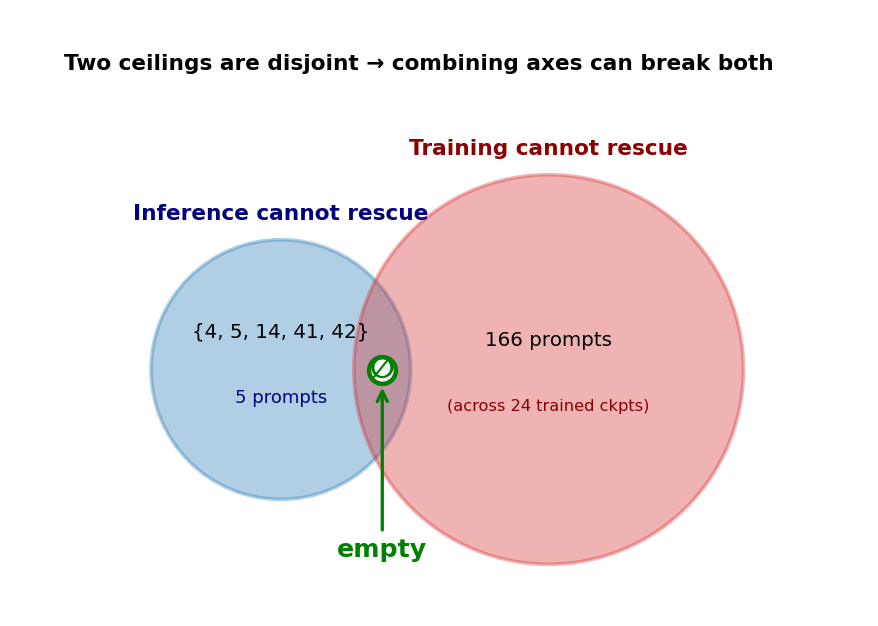
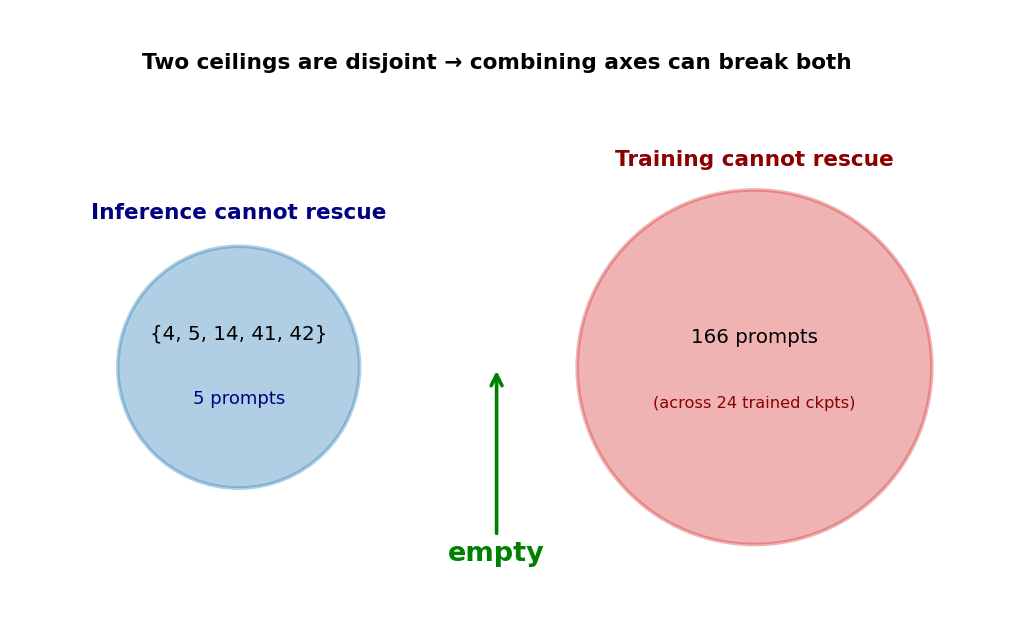
polish(figures): venn truly disjoint + arrow-only empty marker; passN bar chart aligned
cross_axis_venn.png:
  - Removed ∅ icon entirely (the white circle with green stroke was ugly)
  - Circles are now visually SEPARATE (clear gap between them) — that
    is the actual point: disjoint sets don't visually overlap
  - Single green arrow from below pointing into the gap, labeled
    'empty'. No target marker. Clean.

passN_vs_SC.png:
  - X-axis labels were running into each other ('Full step_84' next
    to 'LoRA r=1 step_336' overlapped). Now compact labels:
      'Full ep=2', 'Full ep=0.5', 'LoRA r=1 ep=2'
    rotated 20° at right alignment.
  - Gap labels moved ABOVE each pair (was crammed between bars).
    Bar values added on top of each bar in matching colors.
  - Figure widened to 13in for breathing room.

Changed region(s): [[0.0923, 0.2138, 0.9226, 0.9164], [0.0615, 0.0611, 0.8918, 0.1222]]

diff --git a/scripts/make_logic_chain_figures.py b/scripts/make_logic_chain_figures.py
@@ -171,10 +171,12 @@ def fig_passN_vs_sc():
     if not base.is_dir():
         print("  (skip — no t6_decode_ablate)"); return
 
+    # Compact labels to avoid x-axis overlap. Full chart already conveys
+    # the model identity via grouping; T= ... is the within-group axis.
     label_short = {
-        "v161_t6_ablate_hf_step_336": "Full step_336",
-        "v161_t6_ablate_hf_step_84":  "Full step_84",
-        "v161_t6_lora_r1_hf_step_336_merged": "LoRA r=1 step_336",
+        "v161_t6_ablate_hf_step_336": "Full ep=2",
+        "v161_t6_ablate_hf_step_84":  "Full ep=0.5",
+        "v161_t6_lora_r1_hf_step_336_merged": "LoRA r=1 ep=2",
     }
     for d in sorted(base.iterdir()):
         if not d.is_dir(): continue
@@ -205,45 +207,41 @@ def fig_passN_vs_sc():
     if not cells:
         print("  (skip — no parsed cells)"); return
 
-    fig, ax = plt.subplots(figsize=(11, 5.5))
+    fig, ax = plt.subplots(figsize=(13, 6))
     n = len(cells)
     xs = np.arange(n)
     pass8 = [c[2] for c in cells]
     sc8 = [c[3] for c in cells]
     w = 0.38
-    ax.bar(xs - w/2, pass8, w, color="steelblue", edgecolor="black",
-           label="Sampling oracle (pass@8)")
-    ax.bar(xs + w/2, sc8, w, color="indianred", edgecolor="black",
-           label="Majority vote (SC@8)")
+    pass_bars = ax.bar(xs - w/2, pass8, w, color="steelblue",
+                        edgecolor="black", label="Sampling oracle (pass@8)")
+    sc_bars = ax.bar(xs + w/2, sc8, w, color="indianred",
+                      edgecolor="black", label="Majority vote (SC@8)")
 
-    # gap arrows + label OFFSET to the RIGHT of the right bar so it's
-    # not hidden behind the red bar
-    LABEL_X_OFFSET = 0.32
+    # Number on TOP of each bar
+    for b, v in zip(pass_bars, pass8):
+        ax.text(b.get_x() + b.get_width()/2, v + 0.6, f"{v:.1f}",
+                ha="center", fontsize=8, color="steelblue")
+    for b, v in zip(sc_bars, sc8):
+        ax.text(b.get_x() + b.get_width()/2, v + 0.6, f"{v:.1f}",
+                ha="center", fontsize=8, color="indianred")
+
+    # Gap label CENTERED ABOVE the bar pair (above pass@8 since it's higher)
     for i, (p, s) in enumerate(zip(pass8, sc8)):
-        # vertical line connecting top of red bar to top of blue bar
-        ax.annotate("",
-                    xy=(i, p - 0.5),
-                    xytext=(i, s + 0.5),
-                    arrowprops=dict(arrowstyle="<->", color="dimgray",
-                                    alpha=0.85, lw=1.4))
-        # gap value placed to the RIGHT of both bars, vertically centered
-        ax.text(i + LABEL_X_OFFSET + w/2, (p + s) / 2,
-                f"gap\n{p - s:.1f}",
-                ha="left", va="center",
-                fontsize=8.5, color="dimgray", fontweight="bold",
-                bbox=dict(boxstyle="round,pad=0.2", facecolor="white",
-                          edgecolor="lightgray", alpha=0.85))
+        ax.text(i, p + 4.5, f"gap −{p - s:.1f}",
+                ha="center", fontsize=9, color="dimgray", fontweight="bold")
 
     ax.set_xticks(xs)
-    ax.set_xticklabels([f"{c[0]}\n@T={c[1]}" for c in cells], fontsize=9)
+    # Two-line label: model on top, T on bottom; rotated 25° to avoid overlap
+    ax.set_xticklabels([f"{c[0]}\nT={c[1]}" for c in cells],
+                       fontsize=9, rotation=20, ha="right")
     ax.set_ylabel("fail rescue (%)")
     ax.set_title("Sampling oracle vs deployable majority-vote on full scope\n"
                  "gap 25-30% = model capacity exists but cannot be tapped without oracle")
     ax.legend(loc="upper right")
     ax.grid(axis="y", alpha=0.3)
-    ax.set_ylim(0, 78)
-    # extra right margin so the rightmost gap label fits
-    ax.set_xlim(-0.6, n - 0.4 + LABEL_X_OFFSET + w/2 + 0.4)
+    ax.set_ylim(0, 80)
+    plt.subplots_adjust(bottom=0.22)
     out = FIG_DIR / "passN_vs_SC.png"
     plt.savefig(out); plt.close()
     print(f"  → {out}")
@@ -295,56 +293,51 @@ def fig_capacity_ladder():
 
 # ──────────────────── Figure 6: Cross-axis Venn diagram ────────────────────
 def fig_cross_axis_venn():
-    """Conceptual: inference-ceiling and training-ceiling are disjoint."""
+    """Two disjoint sets — circles do NOT overlap; arrow into the gap
+    between them with 'empty' label, no marker icon."""
     fig, ax = plt.subplots(figsize=(10, 6))
     from matplotlib.patches import Circle
-    # Two non-overlapping circles (positions chosen so they JUST touch)
-    LEFT_CTR = (-1.7, 0); LEFT_R = 1.6
-    RIGHT_CTR = (1.6, 0); RIGHT_R = 2.4
+
+    # SEPARATE circles (clear gap between) — the visual fact = disjoint
+    LEFT_CTR = (-3.2, 0); LEFT_R = 1.5
+    RIGHT_CTR = (3.2, 0); RIGHT_R = 2.2
     c1 = Circle(LEFT_CTR, LEFT_R, alpha=0.35, color="tab:blue", linewidth=2,
                 edgecolor="navy")
     c2 = Circle(RIGHT_CTR, RIGHT_R, alpha=0.35, color="tab:red", linewidth=2,
                 edgecolor="darkred")
     ax.add_patch(c1); ax.add_patch(c2)
 
-    # Left circle: A-axis Ceiling-5
+    # Left circle: inference-only ceiling
     ax.text(LEFT_CTR[0], LEFT_CTR[1] + 1.85, "Inference cannot rescue",
             ha="center", fontsize=12, fontweight="bold", color="navy")
-    ax.text(LEFT_CTR[0], LEFT_CTR[1] + 0.4, "{4, 5, 14, 41, 42}",
+    ax.text(LEFT_CTR[0], LEFT_CTR[1] + 0.35, "{4, 5, 14, 41, 42}",
             ha="center", fontsize=11)
-    ax.text(LEFT_CTR[0], LEFT_CTR[1] - 0.4, "5 prompts",
+    ax.text(LEFT_CTR[0], LEFT_CTR[1] - 0.45, "5 prompts",
             ha="center", fontsize=10, color="navy")
 
-    # Right circle: T6 hardset
-    ax.text(RIGHT_CTR[0], RIGHT_CTR[1] + 2.65, "Training cannot rescue",
+    # Right circle: training-only ceiling
+    ax.text(RIGHT_CTR[0], RIGHT_CTR[1] + 2.5, "Training cannot rescue",
             ha="center", fontsize=12, fontweight="bold", color="darkred")
     ax.text(RIGHT_CTR[0], RIGHT_CTR[1] + 0.3, "166 prompts",
             ha="center", fontsize=11)
     ax.text(RIGHT_CTR[0], RIGHT_CTR[1] - 0.5, "(across 24 trained ckpts)",
             ha="center", fontsize=9, color="darkred")
 
-    # Touch point of the two circles ≈ between centers
-    intersect_x = (LEFT_CTR[0] + LEFT_R + RIGHT_CTR[0] - RIGHT_R) / 2
-    intersect_y = 0
-    # Tiny ∅ marker at the (empty) intersection
-    ax.scatter([intersect_x], [intersect_y], marker="o", s=220,
-               facecolors="white", edgecolors="green", linewidth=2.5, zorder=5)
-    ax.text(intersect_x, intersect_y, "∅", ha="center", va="center",
-            fontsize=16, color="green", fontweight="bold", zorder=6)
-
-    # Arrow pointing IN to the empty intersection from outside (below)
+    # Arrow from below pointing into the gap between circles, label "empty"
+    # (no target marker — the arrow simply points to nothing)
+    GAP_X = 0  # midpoint of the gap (well outside both circles)
     ax.annotate("empty",
-                xy=(intersect_x, intersect_y - 0.18),
-                xytext=(intersect_x, -2.3),
-                fontsize=14, color="green", fontweight="bold", ha="center",
-                arrowprops=dict(arrowstyle="->", color="green", lw=1.8))
+                xy=(GAP_X, 0),
+                xytext=(GAP_X, -2.4),
+                fontsize=15, color="green", fontweight="bold", ha="center",
+                arrowprops=dict(arrowstyle="->", color="green", lw=2))
 
-    # Title at top
+    # Title
     ax.text(0, 3.7,
             "Two ceilings are disjoint → combining axes can break both",
             ha="center", fontsize=12, fontweight="bold")
 
-    ax.set_xlim(-5, 5.5); ax.set_ylim(-3, 4.4)
+    ax.set_xlim(-6, 6.5); ax.set_ylim(-3, 4.4)
     ax.set_aspect("equal")
     ax.axis("off")
     out = FIG_DIR / "cross_axis_venn.png"